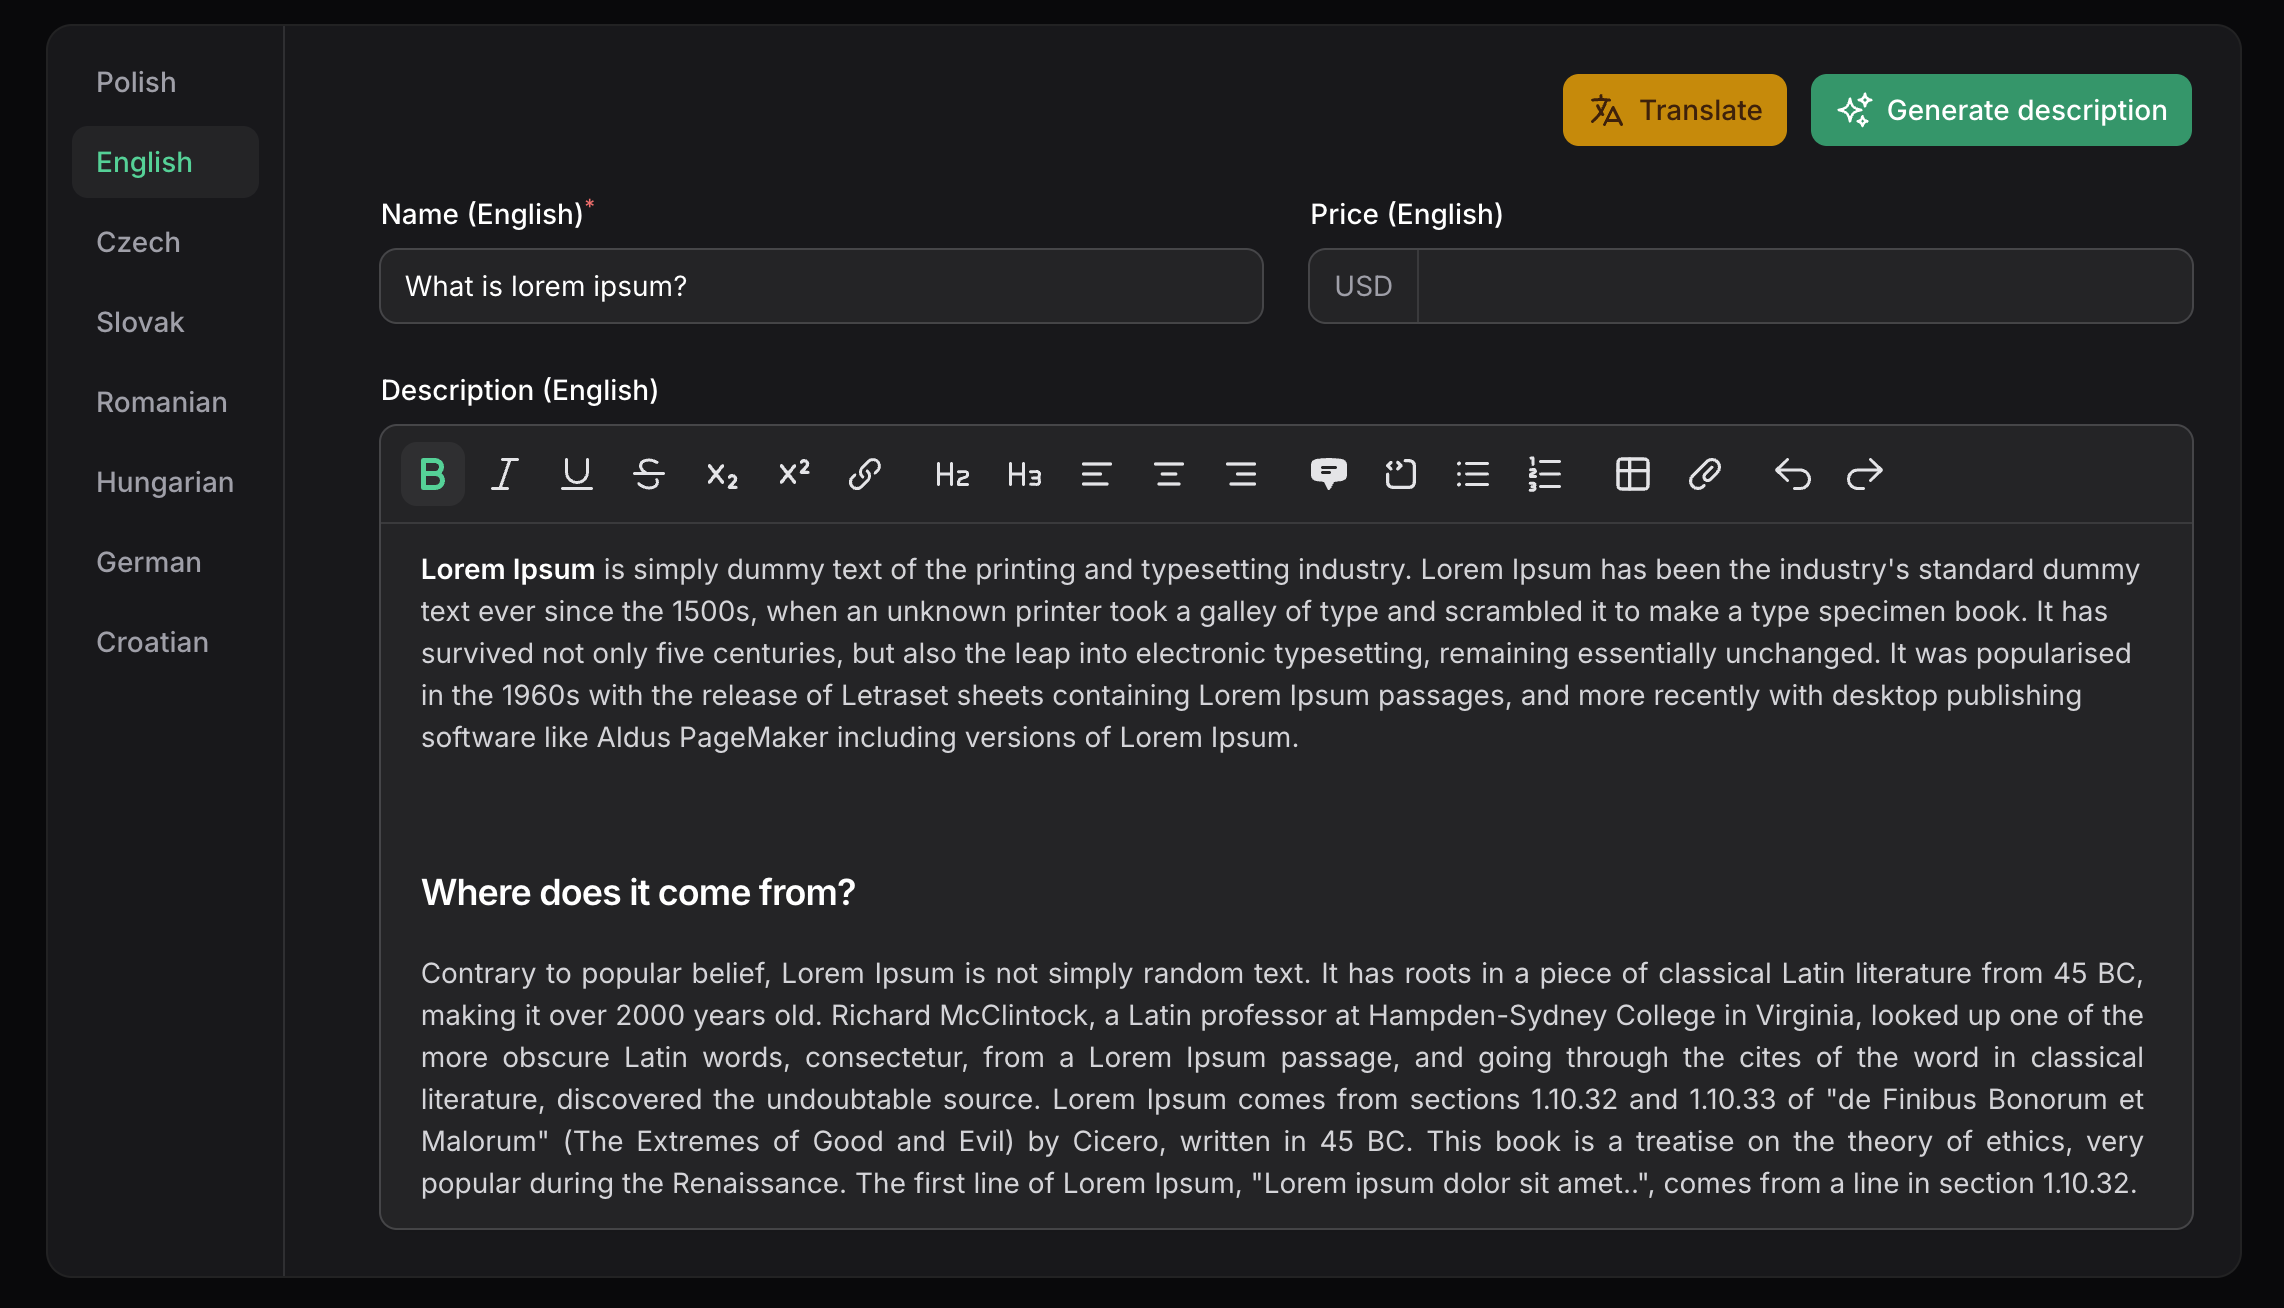
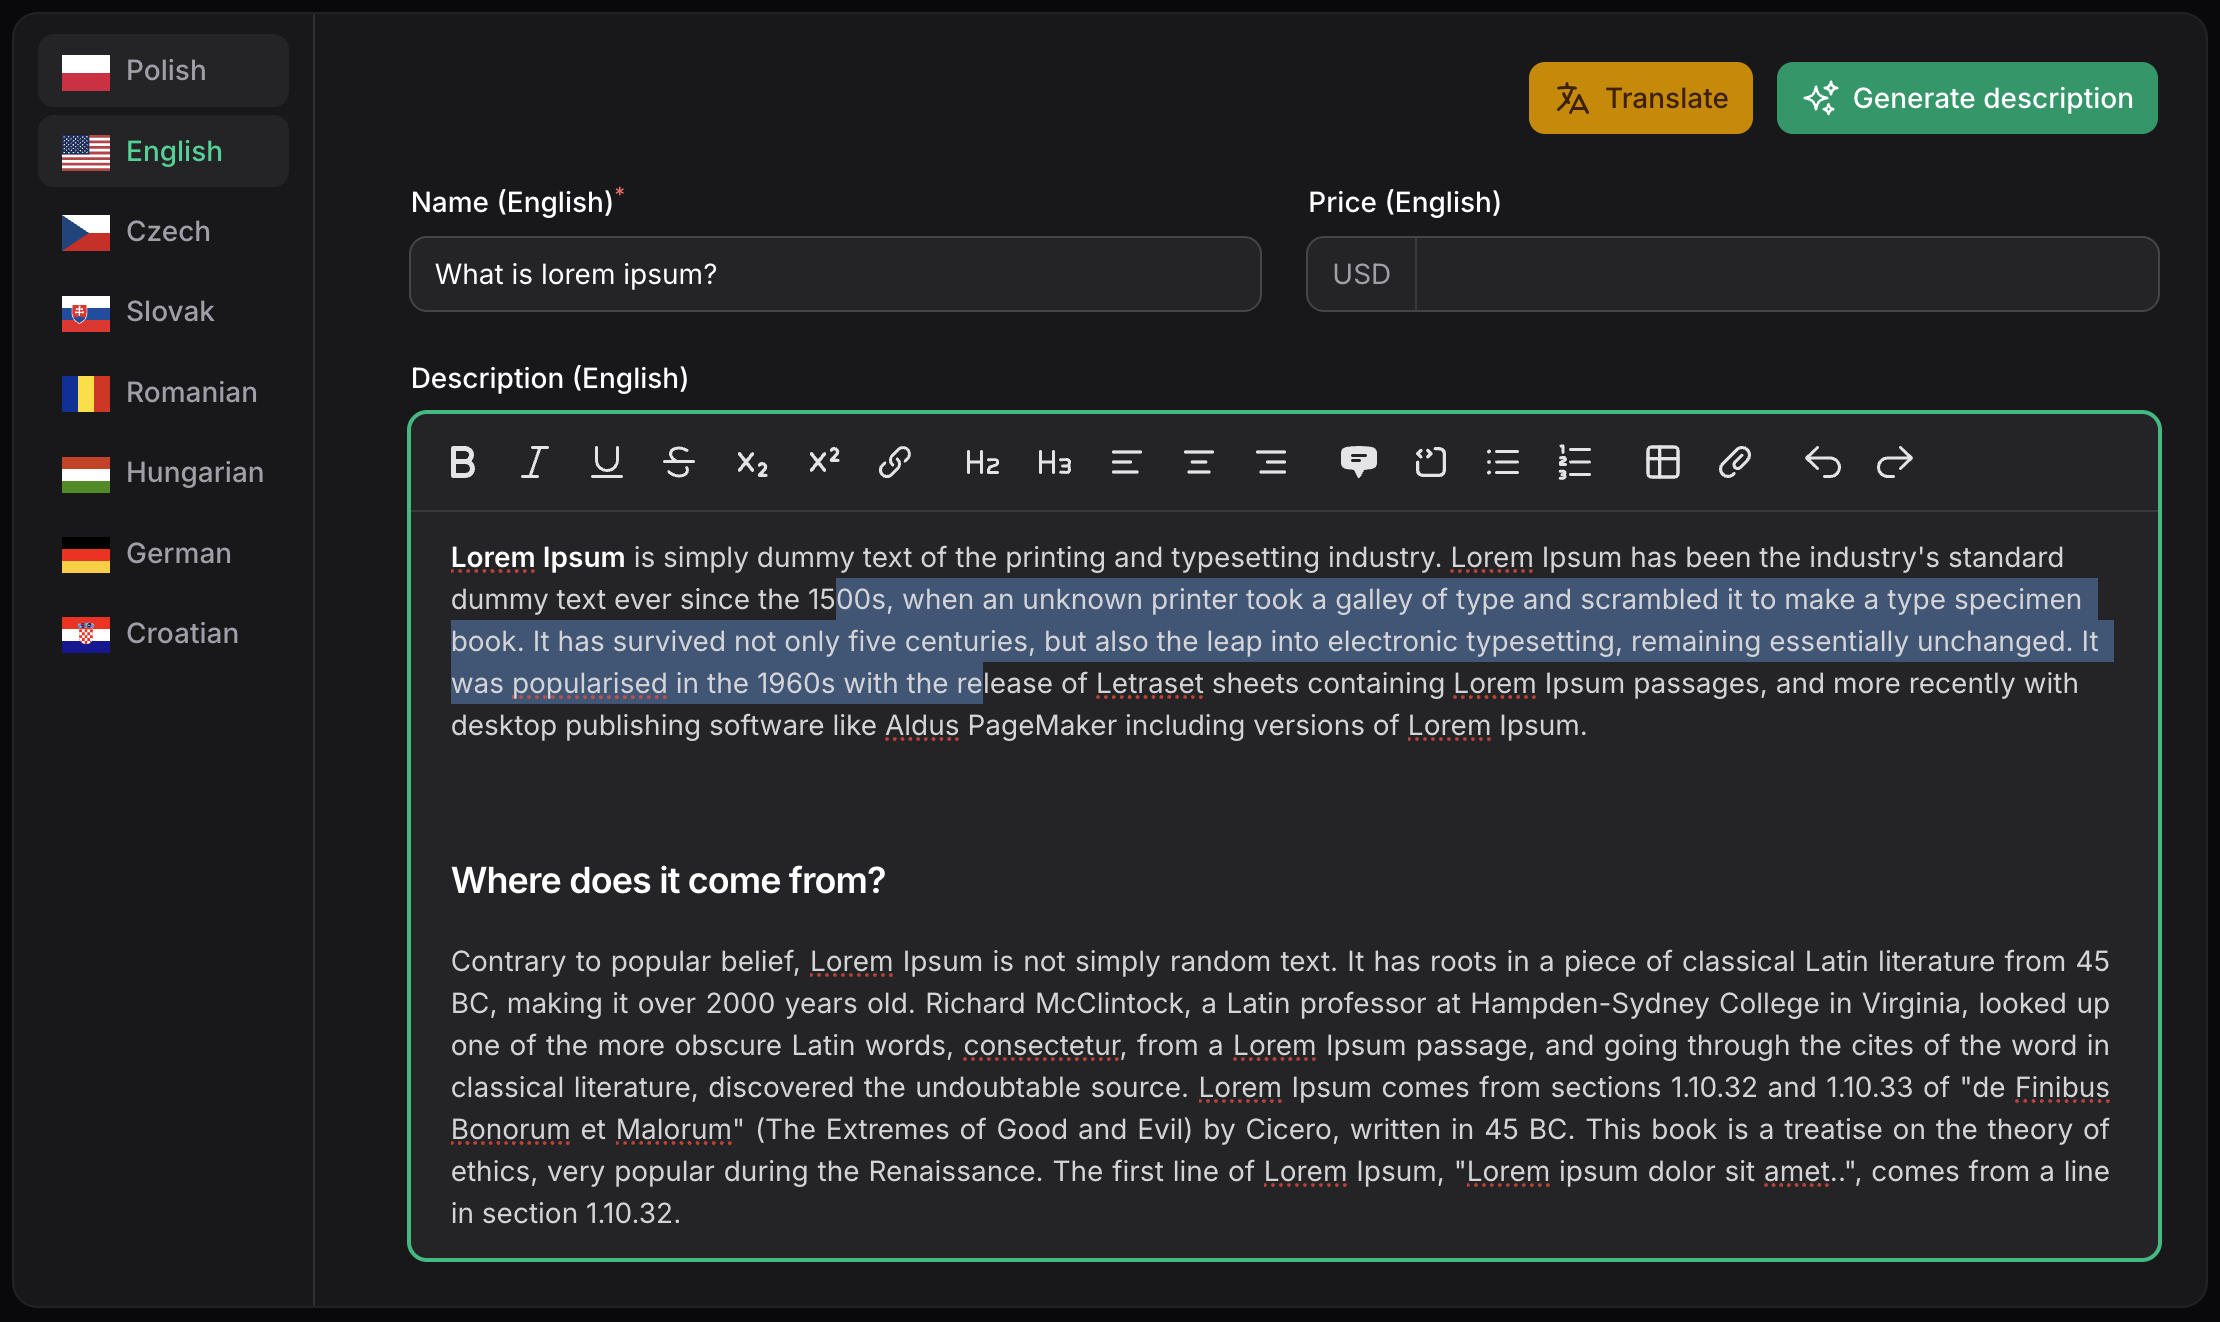
wip

diff --git a/README.md b/README.md
@@ -5,7 +5,7 @@
 
 Filament Translatable is a bunch of tools that helps managing translations.
 
-![filament-translate-field-5](https://raw.githubusercontent.com/filamerce/filament-translatable/refs/heads/filament-4/screenshots/component.png)
+![translatable component](https://raw.githubusercontent.com/filamerce/filament-translatable/refs/heads/filament-4/screenshots/component.png)
 
 ## Installation
 
@@ -118,6 +118,8 @@ use Filament\Forms\Components\TextInput;
 TextInput::make('name')
     ->translatable()
 ```
+
+![translatable macro](https://raw.githubusercontent.com/filamerce/filament-translatable/refs/heads/filament-4/screenshots/macro.png)
 
 #### Marking field as required for specified locale
 